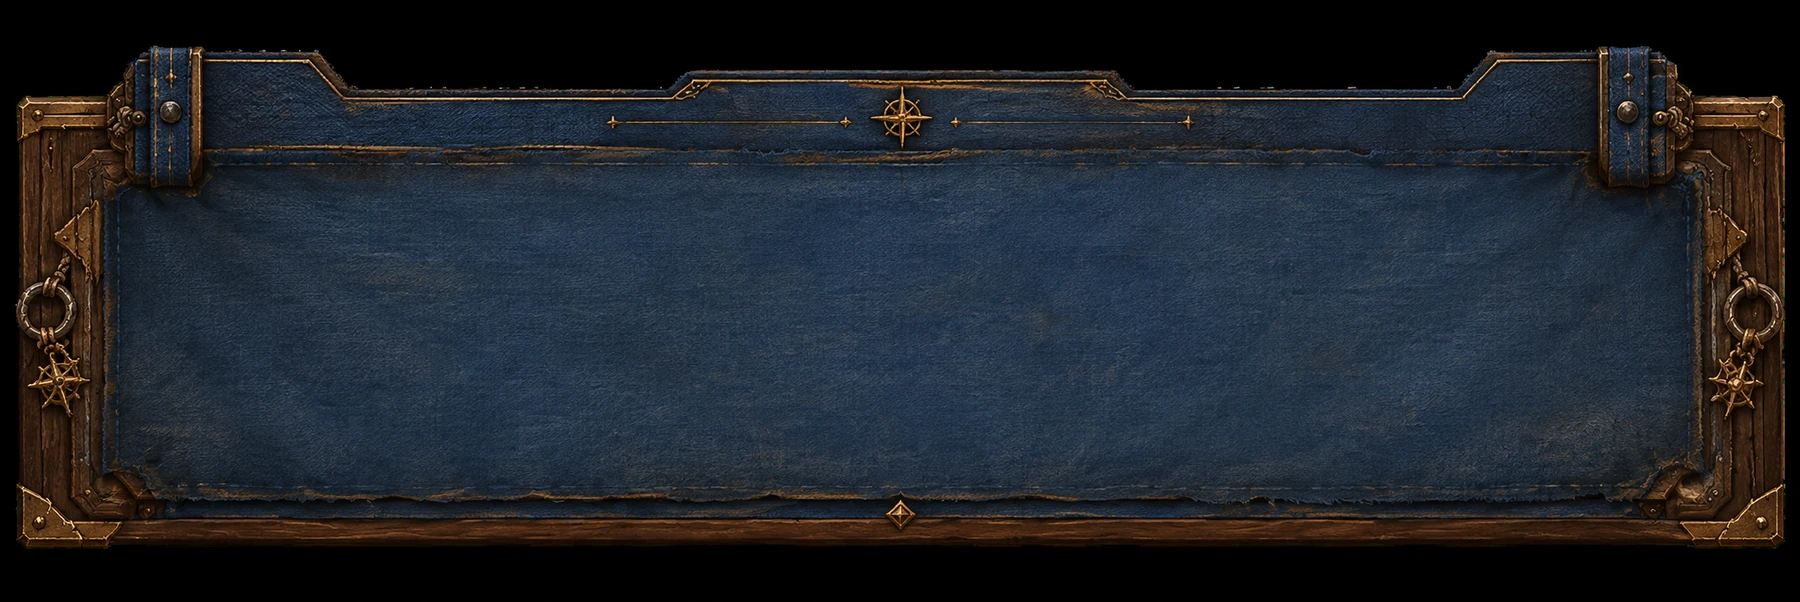
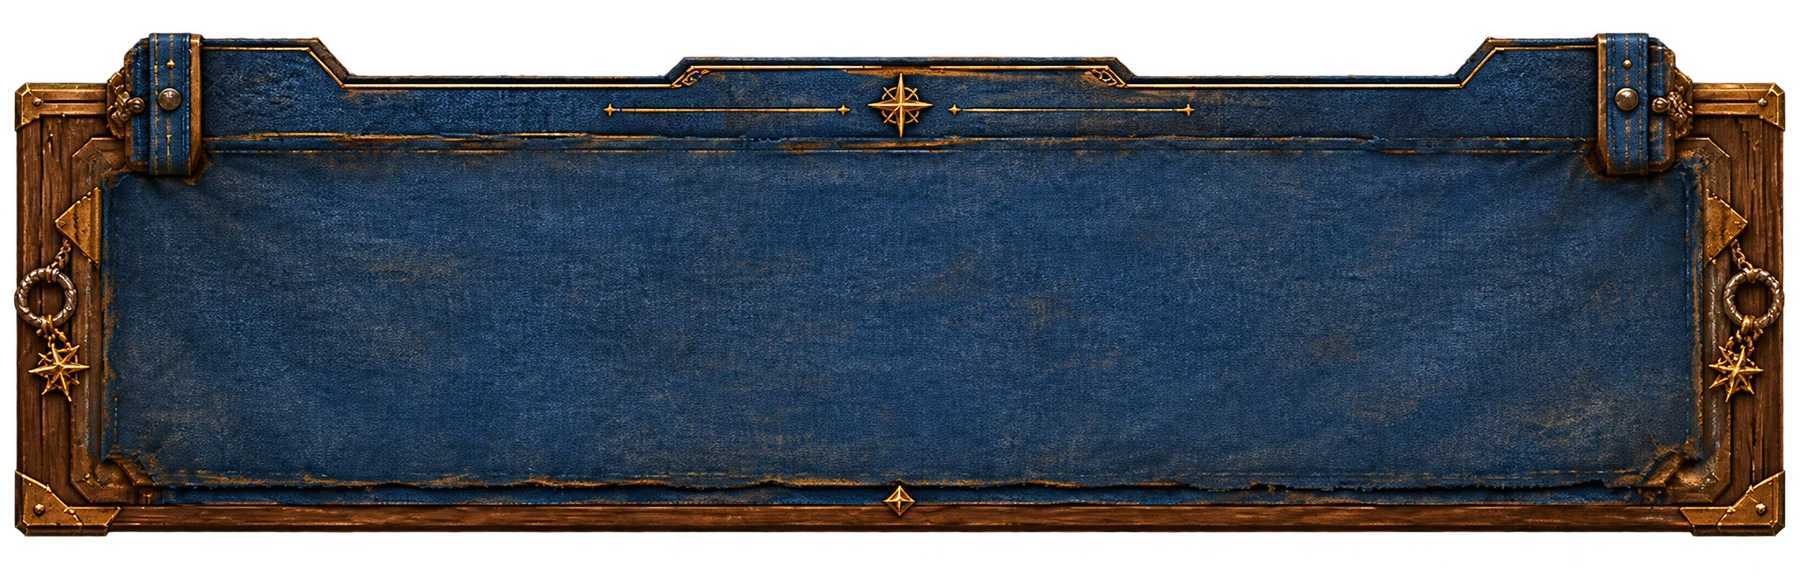
Refresh homepage deck frame asset

diff --git a/home-fantasy.css b/home-fantasy.css
@@ -2,7 +2,7 @@
 *{box-sizing:border-box}.fantasy-home{position:relative;overflow-x:hidden;background:linear-gradient(180deg,#d8e8df 0 40%,#d7c7a6 78%,#c7b28b);color:#172846}.fantasy-home .shell{width:min(1500px,calc(100% - 72px))}.fantasy-home:before,.fantasy-home:after{content:"";position:fixed;z-index:60;top:0;bottom:0;width:16px;pointer-events:none;background:linear-gradient(90deg,#2d1b0c,#7c5128 35%,#bd8442 48%,#493018 64%,#24170b);box-shadow:0 0 0 2px #c5974e,0 0 18px rgba(36,23,11,.6)}.fantasy-home:before{left:0}.fantasy-home:after{right:0;transform:scaleX(-1)}
 .fantasy-topbar{width:100%;height:76px;margin:0;padding:0 max(32px,calc((100% - 1500px)/2));gap:28px;border:0;border-bottom:2px solid var(--fantasy-gold);border-radius:0;background:linear-gradient(180deg,#0e477d,#082f59);box-shadow:0 5px 20px rgba(5,31,55,.34)}.fantasy-topbar:before{content:"";position:absolute;inset:0;background:radial-gradient(circle at 75% 0,rgba(66,161,211,.2),transparent 35%);pointer-events:none}.fantasy-topbar .brand{position:relative;flex:0 0 auto;margin-right:auto;gap:13px}.fantasy-topbar .brand-emblem{width:52px;height:52px;font-size:18px;color:#fff;border:2px solid #e1bd6b;background:radial-gradient(circle,#fff 0 3%,#3ed1ff 8%,#0a78ca 30%,#053d78 57%,#081f3d 70%);box-shadow:inset 0 0 8px #85e6ff,0 0 15px rgba(45,194,255,.8)}.fantasy-topbar .brand-copy strong{font-size:28px;color:#fff7d9;text-shadow:0 2px 0 #102a44}.fantasy-topbar .brand-copy small{margin-top:6px;color:#e5c171;font-size:8px}.fantasy-topbar .main-nav{position:relative;display:flex;gap:27px;margin-left:auto;scrollbar-width:none}.fantasy-topbar .main-nav::-webkit-scrollbar{display:none}.fantasy-topbar .main-nav a{padding:29px 0 27px;color:#fff0cb;font:600 11px Cinzel,serif;white-space:nowrap;letter-spacing:.015em}.fantasy-topbar .main-nav a:hover,.fantasy-topbar .main-nav a.active{color:#fff}.fantasy-topbar .main-nav a.active:after{bottom:0;height:3px;background:#efc665;box-shadow:0 0 10px rgba(239,198,101,.8)}.fantasy-topbar .round-btn{position:relative;width:48px;height:42px;border-color:#d4a54d;border-radius:22px;background:#07335e;color:#ffe1a0;font-size:18px}
 .fantasy-hero{position:relative;z-index:5;height:445px;overflow:visible;border-bottom:5px solid #5d3a19;background:#80abc0}.hero-scene{position:absolute;inset:0;background:url('assets/home/portaldb-hero.webp') center center/cover no-repeat}.fantasy-hero:before{content:"";position:absolute;z-index:1;inset:0;background:linear-gradient(90deg,rgba(255,250,231,.94) 0%,rgba(255,249,228,.88) 22%,rgba(250,244,222,.64) 35%,rgba(244,237,211,.2) 48%,transparent 61%),linear-gradient(180deg,rgba(255,255,255,.13),transparent 64%,rgba(16,48,63,.08));pointer-events:none}.fantasy-hero:after{content:"";position:absolute;z-index:2;left:0;right:0;bottom:-6px;height:12px;background:linear-gradient(180deg,#bd8941,#593716 45%,#936331 65%,#2e1c0c);box-shadow:0 3px 0 #c7a05c}.hero-copy{position:relative;z-index:3;padding-top:64px}.hero-copy .eyebrow{color:#8e611e;font-size:10px;letter-spacing:.2em}.hero-copy h1{width:660px;margin:10px 0 7px;color:#262a31;font-size:clamp(50px,4.25vw,68px);line-height:.96;letter-spacing:-.045em;text-transform:uppercase;text-shadow:0 1px rgba(255,255,255,.8)}.hero-copy h1 span,.hero-copy h1 em{display:block;white-space:nowrap}.hero-copy h1 em{color:#0a4f91;font-style:normal}.hero-copy>p{margin:13px 0 0;color:#343640;font:600 16px Cinzel,serif}.hero-copy>p strong{color:#0b4f8d}.fantasy-home .search-shell{position:relative;width:590px;height:58px;margin-top:20px;padding:5px 6px 5px 17px;border:3px double #a77830;border-radius:3px;background:linear-gradient(180deg,#fffdf2,#f5e7c5);box-shadow:0 4px 0 #6b421d,0 9px 22px rgba(49,35,19,.2)}.fantasy-home .search-shell:before,.fantasy-home .search-shell:after{content:"◆";position:absolute;top:17px;color:#b18033;font-size:11px}.fantasy-home .search-shell:before{left:-10px}.fantasy-home .search-shell:after{right:-10px}.fantasy-home .search-mark{color:#332e2a;font-size:21px}.fantasy-home .search-shell input{font-size:13px}.fantasy-home .search-shell button{height:43px;padding:0 26px;border:1px solid #e0bb67;border-radius:2px;background:linear-gradient(180deg,#176ca6,#074575);box-shadow:inset 0 0 0 2px rgba(255,255,255,.08);color:#fff1ca}.fantasy-home .popular-searches{margin-top:12px;color:#3f3e3a;font-size:10px}.fantasy-home .popular-searches button{padding:5px 10px;border:1px solid #b9955f;border-radius:12px;background:linear-gradient(#fff8e5,#ead6ad);color:#474139}.fantasy-home .search-results{position:absolute;z-index:30;width:590px;margin-top:8px;border-color:#a77b3b;border-radius:3px;background:#fff9e8;color:#302b26}.fantasy-home .result-row{color:#332d25;border-color:#d9c59c}.fantasy-home .result-row:hover{background:#e2f0f7}.fantasy-home .result-row small{color:#675f54}
-.category-deck-shell{--category-deck-frame-image:url('assets/home/ui/home-category-deck-frame.webp');position:relative;z-index:8;isolation:isolate;margin-top:-22px;padding:12px 14px 190px;overflow:visible}.category-deck-art{position:absolute;z-index:0;top:28px;right:-20px;bottom:0;left:-20px;pointer-events:none;background-color:#07111b;background-image:var(--category-deck-frame-image);background-position:center;background-repeat:no-repeat;background-size:cover}.category-deck-art:before{content:none}.category-deck{position:relative;z-index:1;display:grid;grid-template-columns:repeat(7,minmax(0,1fr));gap:9px}.category-deck>.field-card{z-index:1}.field-card{position:relative;min-width:0;height:205px;padding:0 10px 10px;display:flex;flex-direction:column;align-items:center;overflow:hidden;text-align:center;color:#392d22;border:3px double #9d743c;border-radius:2px;background:linear-gradient(rgba(255,250,232,.97),rgba(236,215,175,.98)),repeating-linear-gradient(10deg,transparent 0 7px,rgba(107,73,31,.05) 8px 9px);box-shadow:0 4px 0 #785022,0 6px 10px rgba(40,25,12,.25);transition:transform .18s,border-color .18s}.field-card:before,.field-card:after{content:"";position:absolute;top:4px;width:10px;height:10px;border:1px solid #a97835;background:#d8b167;transform:rotate(45deg)}.field-card:before{left:4px}.field-card:after{right:4px}.field-card:hover{transform:translateY(-5px);border-color:#e0b65c}.field-visual{width:calc(100% + 20px);height:102px;flex:0 0 102px;margin-bottom:5px;overflow:hidden;border-bottom:2px solid #b98c43;background:#d8e2d4}.field-visual img{width:100%;height:100%;display:block;object-fit:cover}.field-visual.npc-category-art{background:radial-gradient(circle,#e8e2c7,#a8c9cb)}.field-visual.npc-category-art img{object-fit:contain;object-position:center 13%}.field-card strong{font:600 18px/1.05 Cinzel,serif;text-transform:uppercase}.field-card small{margin-top:4px;min-height:28px;color:#554a3f;font:500 9px/1.35 Inter,sans-serif}.field-card b{margin-top:auto;padding:4px 13px;border:1px solid #d2a856;border-radius:2px;background:#0a4c80;color:#fff0ca;font:600 8px Cinzel,serif;text-transform:uppercase;letter-spacing:.07em}
+.category-deck-shell{--category-deck-frame-image:url('assets/home/ui/home-category-deck-frame.webp?v=20260820-2');position:relative;z-index:8;isolation:isolate;margin-top:-22px;padding:12px 14px 190px;overflow:visible}.category-deck-art{position:absolute;z-index:0;top:28px;right:-20px;bottom:0;left:-20px;pointer-events:none;background-color:#07111b;background-image:var(--category-deck-frame-image);background-position:center;background-repeat:no-repeat;background-size:cover}.category-deck-art:before{content:none}.category-deck{position:relative;z-index:1;display:grid;grid-template-columns:repeat(7,minmax(0,1fr));gap:9px}.category-deck>.field-card{z-index:1}.field-card{position:relative;min-width:0;height:205px;padding:0 10px 10px;display:flex;flex-direction:column;align-items:center;overflow:hidden;text-align:center;color:#392d22;border:3px double #9d743c;border-radius:2px;background:linear-gradient(rgba(255,250,232,.97),rgba(236,215,175,.98)),repeating-linear-gradient(10deg,transparent 0 7px,rgba(107,73,31,.05) 8px 9px);box-shadow:0 4px 0 #785022,0 6px 10px rgba(40,25,12,.25);transition:transform .18s,border-color .18s}.field-card:before,.field-card:after{content:"";position:absolute;top:4px;width:10px;height:10px;border:1px solid #a97835;background:#d8b167;transform:rotate(45deg)}.field-card:before{left:4px}.field-card:after{right:4px}.field-card:hover{transform:translateY(-5px);border-color:#e0b65c}.field-visual{width:calc(100% + 20px);height:102px;flex:0 0 102px;margin-bottom:5px;overflow:hidden;border-bottom:2px solid #b98c43;background:#d8e2d4}.field-visual img{width:100%;height:100%;display:block;object-fit:cover}.field-visual.npc-category-art{background:radial-gradient(circle,#e8e2c7,#a8c9cb)}.field-visual.npc-category-art img{object-fit:contain;object-position:center 13%}.field-card strong{font:600 18px/1.05 Cinzel,serif;text-transform:uppercase}.field-card small{margin-top:4px;min-height:28px;color:#554a3f;font:500 9px/1.35 Inter,sans-serif}.field-card b{margin-top:auto;padding:4px 13px;border:1px solid #d2a856;border-radius:2px;background:#0a4c80;color:#fff0ca;font:600 8px Cinzel,serif;text-transform:uppercase;letter-spacing:.07em}
 .journal-dashboard{position:relative;display:grid;grid-template-columns:1.25fr 1.15fr .9fr .9fr;gap:0;margin-top:12px;padding:17px 17px 19px;border:5px ridge #94632e;border-radius:3px;background:linear-gradient(90deg,#4b2c12,#8c5b2c 2%,#184f78 2.3%,#0d3c68 3%,#0d3c68 97%,#184f78 97.7%,#8c5b2c 98%,#4b2c12);box-shadow:0 8px 0 #38210e,0 16px 28px rgba(48,30,13,.32)}.journal-dashboard:before,.journal-dashboard:after{content:"✦";position:absolute;z-index:3;top:-13px;width:28px;height:28px;display:grid;place-items:center;border:2px solid #b98138;border-radius:50%;background:#6d4721;color:#e7bf6c}.journal-dashboard:before{left:-13px}.journal-dashboard:after{right:-13px}.journal-panel{min-width:0;padding:13px 15px;color:#352d25;border:0;border-right:1px solid #b59b6f;border-radius:0;background:linear-gradient(rgba(255,249,230,.97),rgba(239,222,188,.98)),repeating-linear-gradient(0deg,transparent 0 5px,rgba(104,76,39,.035) 6px);box-shadow:inset 0 0 16px rgba(107,74,33,.08)}.journal-panel:first-of-type{border-left:2px solid #d3b878}.journal-panel:last-of-type{border-right:2px solid #9d7d4b}.journal-panel header{display:flex;justify-content:space-between;align-items:center;padding:0 0 9px;border-bottom:1px solid #c9ad79}.journal-panel h2{margin:0;font-size:16px;text-transform:uppercase}.journal-panel header a{color:#0b5797;font-size:9px}.update-note{display:grid;grid-template-columns:72px 1fr;gap:10px;padding:10px 0;border-bottom:1px solid #d7c49d}.note-art{height:50px;display:grid;place-items:center;border:1px solid #a98650;border-radius:2px;background:linear-gradient(145deg,#4aa5d8,#163f76);color:#fff0c5;font:700 12px Cinzel,serif}.update-note strong{font:600 11px Inter,sans-serif}.update-note p{margin:3px 0;color:#594f44;font-size:9px;line-height:1.35}.update-note small{font-size:8px;color:#7b6b58}.fantasy-home .entry-preview{gap:0;margin:0}.fantasy-home .preview-row{grid-template-columns:31px 1fr auto;padding:8px 0;border:0;border-bottom:1px solid #d7c49d;border-radius:0;background:transparent}.fantasy-home .preview-icon{width:29px;height:29px;background:#e7d2a7;color:#0a5795}.fantasy-home .preview-row strong{color:#382e25}.fantasy-home .preview-row small{color:#746655}.fantasy-home .preview-tag{border-color:#b99c68;color:#655945}.npc-mini{display:grid;grid-template-columns:40px 1fr;align-items:center;gap:9px;padding:6px 0;border-bottom:1px solid #d7c49d}.npc-mini img{width:38px;height:38px;object-fit:contain;border-radius:50%;background:#dbe7e4;border:2px solid #a57b3f}.npc-mini strong,.npc-mini small{display:block}.npc-mini strong{font:600 10px Inter,sans-serif}.npc-mini small{margin-top:2px;color:#706150;font-size:8px}.code-note{position:relative;padding:8px 4px;border-bottom:1px solid #d7c49d}.code-note strong,.code-note small{display:block}.code-note strong{max-width:62%;font:600 10px Cinzel,serif}.code-note small{margin-top:3px;color:#776956;font-size:8px}.code-note span{position:absolute;right:2px;top:7px;padding:3px 4px;border-radius:2px;background:#987129;color:#fff5d7;font-size:6px}.honesty-note{font-size:8px;color:#786c5c}
 .field-guide-note{margin-top:42px;padding:28px;text-align:center;border-top:1px solid #a98549}.field-guide-note h2{margin:7px 0;color:#183d65}.field-guide-note p{max-width:760px;margin:0 auto;color:#56544f;line-height:1.65;font-size:11px}.fantasy-home .footer{margin-top:0;padding-top:55px;color:#6d6458}.fantasy-home .footer strong{color:#0d4c87}
 .fantasy-hero{height:390px}.hero-copy{padding-top:49px;padding-left:clamp(54px,9vw,150px)}.field-card{height:195px}

diff --git a/index.html b/index.html
@@ -7,7 +7,7 @@
   <title>PortalDB — The Portal Companion</title>
   <link rel="preconnect" href="https://fonts.googleapis.com"><link rel="preconnect" href="https://fonts.gstatic.com" crossorigin>
   <link href="https://fonts.googleapis.com/css2?family=Cinzel:wght@500;600;700&family=Inter:wght@400;500;600;700&display=swap" rel="stylesheet">
-  <link rel="stylesheet" href="styles.css?v=20260819-fantasy-3" /><link rel="stylesheet" href="site-nav.css?v=20260819-fantasy-3" /><link rel="stylesheet" href="site-pages.css?v=20260819-fantasy-3" /><link rel="stylesheet" href="fantasy-theme.css?v=20260819-1" /><link rel="stylesheet" href="home-fantasy.css?v=20260819-fantasy-5" /><link rel="stylesheet" href="home-responsive.css?v=20260819-fantasy-2" /><link rel="stylesheet" href="home-category-art.css?v=20260819-4" />
+  <link rel="stylesheet" href="styles.css?v=20260819-fantasy-3" /><link rel="stylesheet" href="site-nav.css?v=20260819-fantasy-3" /><link rel="stylesheet" href="site-pages.css?v=20260819-fantasy-3" /><link rel="stylesheet" href="fantasy-theme.css?v=20260819-1" /><link rel="stylesheet" href="home-fantasy.css?v=20260820-fantasy-6" /><link rel="stylesheet" href="home-responsive.css?v=20260819-fantasy-2" /><link rel="stylesheet" href="home-category-art.css?v=20260819-4" />
 </head>
 <body class="fantasy-home">
   <header class="topbar fantasy-topbar">
